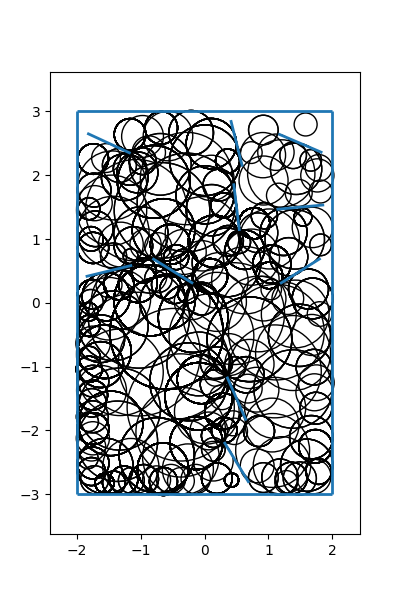
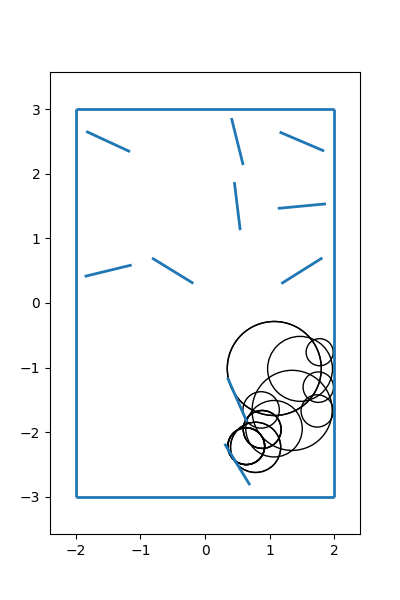
Added landmarks to webots simulation

diff --git a/Simulation/libraries/Environment.py b/Simulation/libraries/Environment.py
@@ -14,16 +14,17 @@ class Maze:
         self.boundary_walls = []
         self.starting_location = []
         self.goal_locations = []
-        self.obstacle = []
+        self.obstacles = []
         self.walls = []
+        self.landmarks = []
 
-        walls, goals, start_positions = parse_maze(maze_file)
+        walls, goals, start_positions, landmarks = parse_maze(maze_file)
 
         for index, row in walls.iterrows():
             if index <= 3:
-                self.boundary_walls.append(BoundryWall(row['x1'], row['y1'], row['x2'], row['y2'], id=index))
+                self.boundary_walls.append(BoundaryWall(row['x1'], row['y1'], row['x2'], row['y2'], id=index))
             else:
-                self.obstacle.append(Obstacle(row['x1'], row['y1'], row['x2'], row['y2'], id=index - 4))
+                self.obstacles.append(Obstacle(row['x1'], row['y1'], row['x2'], row['y2'], id=index - 4))
             self.walls.append([(row['x1'], row['y1']), (row['x2'], row['y2'])])
 
         for index, row in start_positions.iterrows():
@@ -31,6 +32,9 @@ class Maze:
 
         for index, row in goals.iterrows():
             self.goal_locations.append(Goal(row['x'], row['y'], row['id']))
+
+        for index, row in landmarks.iterrows():
+            self.landmarks.append(Landmark(row['x'], row['y'], color=[row['red'], row['green'], row['blue']], id=index))
 
     # Returns random starting positions
     def get_random_starting_position(self):
@@ -67,7 +71,7 @@ class StartingPosition(Point):
         super().__init__(x, y)
 
 
-class BoundryWall:
+class BoundaryWall:
     def __init__(self, x1, y1, x2, y2, height=0.5, width=0.012, id=0):
         self.end_point1 = Point(x1, y1)
         self.end_point2 = Point(x2, y2)
@@ -137,3 +141,32 @@ class Obstacle:
                                                                rotation=self.get_webots_rotation_string(),
                                                                size=self.get_webots_size_string())
         return 'DEF Obstacle_{id} Obstacle '.format(id=self.id) + '{ ' + node_string + ' }'
+
+class Landmark:
+    def __init__(self, x, y, height=1.5, radius=.25, z=0.75, color=[1, 1, 1], id=0):
+        self.height = height
+        self.radius = radius
+        self.x = x
+        self.y = y
+        self.z = z
+        self.translation = [x, y, z]
+        self.id = id
+        self.color = color
+
+    def get_webots_translation_string(self):
+        txt = 'translation {x:.2f} {y:.2f} {z:.2f}'
+        return txt.format(x=self.translation[0], y=self.translation[1], z=self.translation[2])
+
+    def get_webots_size_string(self):
+        txt = 'size {width:.2f} {length:.2f} {height:.2f}'
+        return txt.format(width=self.height, length=self.radius, height=self.radius-.01)
+
+    def get_webots_color_string(self):
+        txt = 'color {red:.2f} {green:.2f} {blue:.2f}'
+        return txt.format(red=self.color[0], green=self.color[1], blue=self.color[2])
+
+    def get_webots_node_string(self):
+        node_string = "{translation} {color} {size}".format(translation=self.get_webots_translation_string(),
+                                                            color=self.get_webots_color_string(),
+                                                            size=self.get_webots_size_string())
+        return 'DEF Landmark_{id} Landmark '.format(id=self.id) + '{ ' + node_string + ' }'

diff --git a/Simulation/libraries/MazeAndPcsParcer.py b/Simulation/libraries/MazeAndPcsParcer.py
@@ -1,5 +1,7 @@
 import xml.etree.ElementTree as ET
-import pandas as pd, numpy as np
+
+import pandas as pd
+
 
 def parse_feeder(xml_feeder):
     fid = int(xml_feeder.get('id'))
@@ -9,7 +11,8 @@ def parse_feeder(xml_feeder):
 
 
 def parse_all_feeders(root):
-    return pd.concat([pd.DataFrame(columns=['id', 'x', 'y'])] + [parse_feeder(xml_feeder) for xml_feeder in root.findall('feeder')]).reset_index(drop=True)
+    return pd.concat([pd.DataFrame(columns=['id', 'x', 'y'])] + [parse_feeder(xml_feeder) for xml_feeder in
+                                                                 root.findall('feeder')]).reset_index(drop=True)
 
 
 def parse_wall(xml_wall):
@@ -18,21 +21,39 @@ def parse_wall(xml_wall):
 
 
 def parse_all_obsticles(xml_root):
-    return pd.concat([pd.DataFrame(columns=['x1', 'y1', 'x2', 'y2'])]  + [parse_wall(xml_wall) for xml_wall in xml_root.findall('wall')]).reset_index(drop=True)
+    return pd.concat([pd.DataFrame(columns=['x1', 'y1', 'x2', 'y2'])] + [parse_wall(xml_wall) for xml_wall in
+                                                                         xml_root.findall('wall')]).reset_index(
+        drop=True)
+
+
+def parse_landmark(xml_landmark):
+    data = [[float(xml_landmark.get(data)) for data in ['x', 'y', 'red', 'green', 'blue']]]
+    return pd.DataFrame(data=data, columns=['x', 'y', 'red', 'green', 'blue'])
+
+
+def parse_all_landmarks(xml_root):
+    return pd.concat(
+        [pd.DataFrame(columns=['x', 'y', 'red', 'green', 'blue'])] + [parse_landmark(xml_landmark) for xml_landmark in
+                                                                      xml_root.findall('landmark')]).reset_index(
+        drop=True)
+
 
 def parse_position(xml_position):
-    return pd.DataFrame(data=[[float(xml_position.get(p)) for p in ['x', 'y', 'w']]], columns=['x','y','w'])
+    return pd.DataFrame(data=[[float(xml_position.get(p)) for p in ['x', 'y', 'w']]], columns=['x', 'y', 'w'])
+
 
 def parse_start_positions(xml_positions):
     if xml_positions is None:
         return pd.DataFrame(columns=['x', 'y', 'w'])
-    return pd.concat([pd.DataFrame(columns=['x', 'y', 'w'])] + [parse_position(xml_pos) for xml_pos in xml_positions.findall('pos')]).reset_index(drop=True)
+    return pd.concat([pd.DataFrame(columns=['x', 'y', 'w'])] + [parse_position(xml_pos) for xml_pos in
+                                                                xml_positions.findall('pos')]).reset_index(drop=True)
+
 
 def parse_maze(file):
     root = ET.parse(file).getroot()
     start_positions = parse_start_positions(root.find('startPositions'))
     walls = parse_all_obsticles(root)
     feeders = parse_all_feeders(root)
+    landmarks = parse_all_landmarks(root)
 
-    return walls, feeders, start_positions
-
+    return walls, feeders, start_positions, landmarks
